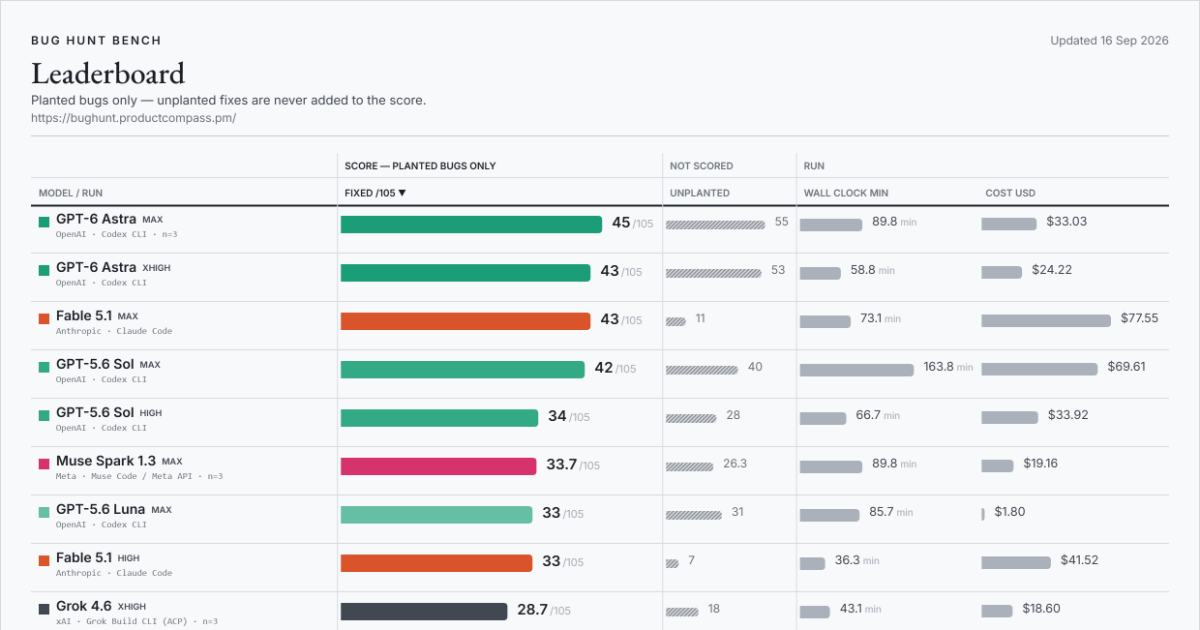
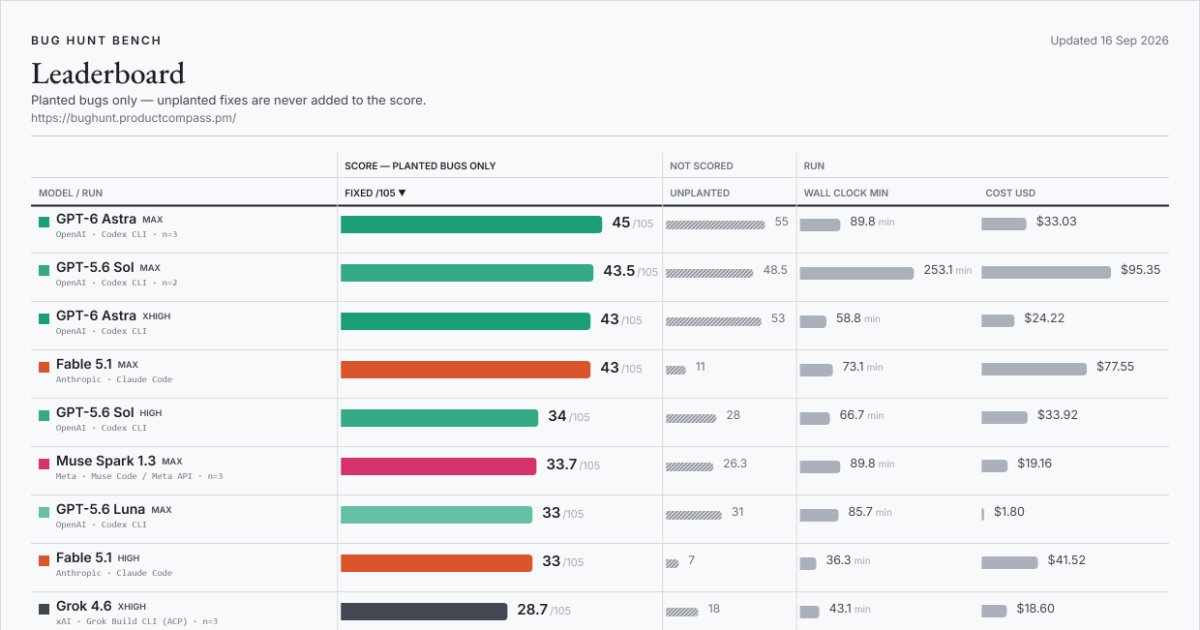
bug hunt bench: GPT-5.6 Sol (max effort) - mean of 2 (43.5/105)

diff --git a/index.html b/index.html
@@ -22,14 +22,14 @@
 <meta property="og:title" content="Bug Hunt Bench — frontier coding models against real planted bugs">
 <meta property="og:description" content="A blind-graded benchmark of frontier coding models on real bugs planted in two production codebases. The score counts planted bugs only; extra fixes are tracked separately and never added.">
 <meta property="og:url" content="https://bughunt.productcompass.pm/">
-<meta property="og:image" content="https://bughunt.productcompass.pm/og-image.png?v=2026-09-16-e9208ab5">
+<meta property="og:image" content="https://bughunt.productcompass.pm/og-image.png?v=2026-09-16-1888d192">
 <meta property="og:image:width" content="1200">
 <meta property="og:image:height" content="630">
 <meta property="og:image:alt" content="Bug Hunt Bench leaderboard">
 <meta name="twitter:card" content="summary_large_image">
 <meta name="twitter:title" content="Bug Hunt Bench — frontier coding models against real planted bugs">
 <meta name="twitter:description" content="A blind-graded benchmark of frontier coding models on real bugs planted in two production codebases. The score counts planted bugs only.">
-<meta name="twitter:image" content="https://bughunt.productcompass.pm/og-image.png?v=2026-09-16-e9208ab5">
+<meta name="twitter:image" content="https://bughunt.productcompass.pm/og-image.png?v=2026-09-16-1888d192">
 <meta name="twitter:creator" content="@PawelHuryn">
 
 <link rel="icon" href="/assets/favicon.svg" type="image/svg+xml">

diff --git a/method.html b/method.html
@@ -20,14 +20,14 @@
 <meta property="og:title" content="Method, caveats and definitions — Bug Hunt Bench">
 <meta property="og:description" content="How Bug Hunt Bench is run and graded, what the board cannot tell you, and what every column on it means.">
 <meta property="og:url" content="https://bughunt.productcompass.pm/method">
-<meta property="og:image" content="https://bughunt.productcompass.pm/og-image.png?v=2026-09-16-e9208ab5">
+<meta property="og:image" content="https://bughunt.productcompass.pm/og-image.png?v=2026-09-16-1888d192">
 <meta property="og:image:width" content="1200">
 <meta property="og:image:height" content="630">
 <meta property="og:image:alt" content="Bug Hunt Bench leaderboard">
 <meta name="twitter:card" content="summary_large_image">
 <meta name="twitter:title" content="Method, caveats and definitions — Bug Hunt Bench">
 <meta name="twitter:description" content="How Bug Hunt Bench is run and graded, what the board cannot tell you, and what every column on it means.">
-<meta name="twitter:image" content="https://bughunt.productcompass.pm/og-image.png?v=2026-09-16-e9208ab5">
+<meta name="twitter:image" content="https://bughunt.productcompass.pm/og-image.png?v=2026-09-16-1888d192">
 <meta name="twitter:creator" content="@PawelHuryn">
 
 <link rel="icon" href="/assets/favicon.svg" type="image/svg+xml">

diff --git a/results/run-notes.md b/results/run-notes.md
@@ -2,7 +2,7 @@
 
 Every row on the board, with the note and caveat it carries. Generated from `data/benchmark.json` by `bench_golive.py` - do not edit by hand.
 
-Updated Sep 16, 2026 · 95 rows from 125 scored runs. Superseded rows are listed last.
+Updated Sep 16, 2026 · 96 rows from 127 scored runs. Superseded rows are listed last.
 
 ## GPT-6 Astra (max effort) - mean of 3
 
@@ -12,6 +12,14 @@ Updated Sep 16, 2026 · 95 rows from 125 scored runs. Superseded rows are listed
 
 THE TOP ROW OF THIS BOARD, RUN THREE TIMES. Runs scored 48, 40 and 47 of 105 (repo 1: 24, 21, 21 - repo 2: 24, 19, 26). Mean 45.0, range 8. *** WHY THIS ARM MATTERED MOST *** Every other row is read against the leader, so the leader was the single run whose spread was worth the most and known the least. It is still the leader: 45.0 is the highest figure on the board and no other row is close to it at n=3. What changed is the width. *** THE RANGE IS 8 POINTS, AND IT IS NOT A SMALL NUMBER HERE *** Eight points of 105 is wider than the gap between the leader and the row below it, wider than most adjacent pairs anywhere on this board, and it sits on a configuration nothing about which was varied: same model, prompt, harness, route, effort flag and judge. The single run published on 2026-09-04 scored 48, which is the TOP of its own three-run range, so every comparison drawn against 48 was drawn against this configuration's best day rather than its typical one. That is not a correction to the old row - 48 happened, and its receipt stands - it is a correction to what the number could be used for. *** WHAT IT DOES AND DOES NOT MOVE *** It does not change the ORDER at the top: 45.0 still leads, and the gap to the next row is now 2 points rather than 5. It does mean that gap is inside the leader's own measured spread, so 'Astra max beats the row below it' is no longer something this board can assert - the row below is itself a single run with an unmeasured spread. Two numbers of unknown width two points apart support no ordering at all. *** THE UNPLANTED COLUMN MOVED FAR MORE THAN THE SCORE *** Genuine extras came in at 45, 58 and 62 across the three runs, a range of 17 on a count that is not scored. The score varied by 8 while the unscored work varied by 17, which is worth knowing before anyone reads a single run's extras figure as a property of a model. All six legs were clean: every leg exited 0, none carries a handicap note, and zero claimed-only fixes were recorded across all six - this arm claimed nothing the judge did not confirm, on any run. Per-leg receipts (repo 1 / repo 2): wall 37.2/41.6, 51.3/44.7 and 35.9/58.7 minutes; cost 15.07/16.14, 17.59/16.14 and 12.33/21.82 dollars. Run 3 ran 20 per cent longer than run 1 and scored one point lower. *** ONE JUDGING NOTE, BECAUSE IT NEARLY BECAME A SILENT DIFFERENCE *** Run 3's repo-2 leg created a scratch directory for itself, holding 300 copies of the files it was about to edit. Every copy was verified byte-identical to the pristine repo, so it contained no fix and no evidence, but left in the diff it would have added two megabytes to that leg's judge packet - a packet neither of the other two runs had. It is excluded, so all three runs were judged on the same shape of evidence. The alternative repair, raising the size limit, would have judged one replicate on a materially different packet from its own siblings. Each leg is a full independent run of both repos; the mean is over three, and the per-repo runs are stated so the spread stays visible - it is the finding, not a caveat on it. billing=LIST ESTIMATE, NOT A BILL: token counts at published list rates.
 
+## GPT-5.6 Sol (max effort) - mean of 2
+
+**43.5 / 105** · repo 1 19/45 · repo 2 24.5/60 · 48.5 unplanted · 253.1 min · $95.35 · `max` · Codex CLI · mean of 2 runs · 2026-09-16
+
+**Caveat.** TWO RUNS IS TWO POINTS. The range between them is 7 of 105, which is wider than the gap between several adjacent rows on this board, so treat 43.5 as an estimate with a known spread rather than a settled number - and note the repo figures round independently of the combined mean, so they can sum to 0.1 away from it. The replication is UNVERIFIED: this harness reports no context accounting, so nothing confirms the two runs shared a configuration beyond their identical arm definitions. A third run was attempted and did not finish.
+
+THE FIRST REPLICATION OF THIS MODEL'S TOP EFFORT SETTING. Runs scored 40 and 47 of 105 (repo 1: 18, 20 - repo 2: 22, 27). Mean 43.5, range 7. *** WHY THIS ROW IS n=2 AND NOT n=3 *** A third run was attempted on 2026-09-16 and did not complete: it ran 156 minutes, finished 563 tool calls, and then the harness account's usage quota was exhausted mid-turn. It produced no report and recorded no tokens and no cost, so there is nothing to score and nothing to average. It is not on this board and is not counted as a low run - a leg that never finished is not a result. Re-running it was declined on cost. *** THE SINGLE-RUN ROW ABOVE SAYS 42 AND THIS MEAN USES 40 FOR THE SAME RUN. BOTH ARE REAL. *** Run 1's transcript has been judged twice. The 2026-07-31 pass scored 19 + 23 = 42 and recorded its judge as grok-4.5 with no served-model field at all, because that column did not exist yet. The 2026-09-13 re-judge scored 18 + 22 = 40 and recorded the model the server actually served, grok-4.6. The judge bridge's model flag is inert - a measurement from 2026-09-04, where grok-4.5, grok-4.6 and a deliberately nonexistent model string all came back as grok-4.6 - so the July pass recorded a REQUEST as though it were a fact and was in all likelihood served the same judge. This mean therefore uses 40: the pass whose judge identity was MEASURED, and the same pass configuration run 2 was scored under. That makes it comparable and documented, NOT more accurate, and the older row keeps its 42 as a receipt rather than being quietly rewritten. *** WHAT THE TWO PASSES BUY, WHICH IS AN ERROR BAR AND NOT SAMPLE SIZE *** They disagree on 3 bugs of 105: on repo 1 one bug moved from a full fix to a partial, on repo 2 two credited bugs became misses. So JUDGE variance on a fixed transcript is 2 points, against MODEL variance of 7 points between the two runs - run-to-run spread is roughly three and a half times the grading noise. Two gradings of one transcript are NOT two runs and were not treated as such; n counts runs of the model. *** THE TWO RUNS COST VERY DIFFERENT AMOUNTS FOR A 7-POINT GAIN *** Run 2 consumed 74 percent more tokens than run 1 (100.9M against 176.0M) and 74 percent more at list rates (69.61 against 121.09 dollars) to score 7 points higher. The runs are six weeks apart on a self-updating CLI that records no version in its transcripts, so whether that is the same model working harder or a changed serving path is NOT established here. Read the mean as a mean of two runs that differed in effort expended as well as in outcome. *** THE REGIME BEHIND THESE TWO RUNS IS UNVERIFIED, NOT VERIFIED *** The automated regime check reads context accounting out of transcripts; this harness reports none - no init record and zero input tokens on every turn - so it returns CANNOT TELL for both repos rather than confirming the runs match. Stated plainly because the alternative is implying a check that did not happen. *** WALL TIME IS NOT COMPARABLE ACROSS THE TWO RUNS *** Run 1's legs ran alone; both of run 2's legs shared the machine with other work and say so in their own rows. Contention can inflate a wall figure and cannot shrink it, so the wall mean here is an upper bound. Scores, tokens and cost are unaffected by it. *** WHAT IS SOLID *** Counts, not inferences. A fixed configuration produced 40 and 47 of 105. Run 2 needed five attempts to produce two clean legs - three earlier legs died on wall budgets or non-zero exits and one was orphaned - so the failure rate of this configuration on this hardware is itself part of the picture and is visible in the metrics receipts.
+
 ## GPT-6 Astra (xhigh effort)
 
 **43 / 105** · repo 1 23/45 · repo 2 20/60 · 53 unplanted · 58.8 min · $24.22 · `xhigh` · Codex CLI · single run · 2026-09-04
@@ -19,10 +27,6 @@ THE TOP ROW OF THIS BOARD, RUN THREE TIMES. Runs scored 48, 40 and 47 of 105 (re
 ## Fable 5.1 (max effort)
 
 **43 / 105** · repo 1 19/45 · repo 2 24/60 · 11 unplanted · 73.1 min · $77.55 · `max` · Claude Code · single run · 2026-09-01
-
-## GPT-5.6 Sol (max effort)
-
-**42 / 105** · repo 1 19/45 · repo 2 23/60 · 40 unplanted · 163.8 min · $69.61 · `max` · Codex CLI · single run · 2026-08-01
 
 ## GPT-5.6 Sol (xhigh effort)
 
@@ -429,6 +433,12 @@ THE ZERO SURVIVES REPLICATION. Runs scored 0, 0 and 0 of 105 (repo 1: 0, 0, 0 - 
 **48 / 105** · repo 1 24/45 · repo 2 24/60 · 45 unplanted · 78.8 min · $31.21 · `max` · Codex CLI · single run · 2026-09-04
 
 **Superseded.** Superseded 2026-09-14 by the n=3 MEAN row at the same setting (45.0). This row is one of three runs that scored 48, 40 and 47, and it is the HIGHEST of the three - which is the reason the replication was worth buying rather than a fault in this run. Nothing here is corrected by arithmetic and the receipt stands; what does not survive is using 48 as the board's ceiling. Read the mean row's range - 8 points - before quoting any margin that rests on this number.
+
+## GPT-5.6 Sol (max effort)
+
+**42 / 105** · repo 1 19/45 · repo 2 23/60 · 40 unplanted · 163.8 min · $69.61 · `max` · Codex CLI · single run · 2026-08-01
+
+**Superseded.** Superseded 2026-09-16 by the n=2 MEAN row at the same setting (43.5). This row is one of the two runs behind it and is kept as a receipt. Read its 42 with care: it is the 2026-07-31 judge pass, which recorded its judge as grok-4.5 and had no served-model field at all. The same transcript was re-judged on 2026-09-13 under a configuration that records what the server actually served, and scored 40 - the two passes disagree on 3 bugs of 105. The mean row uses 40 because that is the measured-judge pass and the one the second run was scored under. Nothing here is corrected by arithmetic; the numbers are two gradings of one run, and the mean row's note says which and why.
 
 ## Muse Spark 1.3 (max effort, Muse Code, Meta API)
 

diff --git a/results/waves.md b/results/waves.md
@@ -2856,3 +2856,44 @@ way DeepInfra was on the Qwen3.8-27B 8-bit row). One run per repo each, not a re
 
 Neither row is featured on the default view, per the same opt-in-only rule as the two sections
 above.
+
+## Sep 16 — GPT-5.6 Sol (max) becomes a two-run mean, and a re-judge shows what grading noise costs
+
+**43.5/105** (repo 1: 19.0, repo 2: 24.5), the mean of two runs that scored **40 and 47** — repo 1:
+18, 20; repo 2: 22, 27. Range 7. The single-run row that stood here is superseded but kept as a
+receipt, and the replacement is what the default view now shows.
+
+- **Two runs is two points, and the spread is the finding.** A range of 7 of 105 on a fixed
+  configuration is wider than the gap between several adjacent rows on this board. Read 43.5 as an
+  estimate with a known spread, not a settled number.
+- **The superseded row says 42 and this mean uses 40 for the same run. Both are real, and the
+  reason is worth publishing.** That transcript has been judged twice. The Jul 31 pass scored
+  19 + 23 = 42 and recorded its judge as grok-4.5 — with no served-model field at all, because that
+  column did not exist yet. The Sep 13 re-judge scored 18 + 22 = 40 and recorded what the server
+  actually served: grok-4.6. The judge bridge's model flag is inert (measured Sep 4: grok-4.5,
+  grok-4.6 and a deliberately nonexistent string all came back grok-4.6), so the July pass recorded
+  a *request* as though it were a fact and was in all likelihood served the same judge. The mean
+  uses 40 because that is the pass whose judge identity was measured, and the pass the second run
+  was scored under — **comparable and documented, not more accurate.** The older number stays
+  visible rather than being quietly rewritten.
+- **What the second grading buys is an error bar, not sample size.** The two passes disagree on
+  **3 bugs of 105**: on repo 1 one bug moved from a full fix to a partial; on repo 2 two credited
+  bugs became misses. So judge variance on a fixed transcript is **2 points**, against **7 points**
+  of model variance between the runs — run-to-run spread is roughly three and a half times the
+  grading noise. Two gradings of one transcript are not two runs, and were not counted as such.
+- **The second run cost 74% more for 7 more points.** 100.9M tokens against 176.0M; $69.61 against
+  $121.09 at list. The runs are six weeks apart on a CLI that records no version in its
+  transcripts, so whether that is the same model working harder or a changed serving path is not
+  established here.
+- **A third run was attempted and is not on this board.** It ran 156 minutes and 563 tool calls,
+  then the harness account's usage quota was exhausted mid-turn. No report, no token accounting,
+  nothing to score — a leg that never finished is not a result and is not counted as a low run.
+- **The replication is unverified rather than verified.** The automated regime check reads context
+  accounting out of transcripts; this harness reports none, so it returns *cannot tell* for both
+  repos. Nothing beyond identical arm definitions confirms the two runs shared a configuration.
+- **Wall time is not comparable across the two runs.** The first run's legs ran alone; both of the
+  second's shared the machine and say so in their own rows. Contention inflates a wall figure and
+  cannot shrink it, so the wall mean is an upper bound. Scores, tokens and cost are untouched by it.
+- **The failure rate is part of the picture.** The second run needed five attempts to produce two
+  clean legs; the earlier ones died on wall budgets or non-zero exits. Those attempts are visible
+  in the metrics receipts.

diff --git a/README.md b/README.md
@@ -9,7 +9,7 @@ If the numbers save you a benchmark run of your own, **star this repo** — that
 <!-- leaderboard:start -->
 ![Bug Hunt Bench leaderboard, the featured runs, updated Sep 16, 2026](assets/leaderboard.png?v=2026-09-16)
 
-**Updated Sep 16, 2026 · 95 rows from 125 scored runs · 31 models · 35 of 105 bugs have never been fixed by any model.**
+**Updated Sep 16, 2026 · 96 rows from 127 scored runs · 31 models · 33 of 105 bugs have never been fixed by any model.**
 
 **Current leader:** GPT-6 Astra at `max` effort — **45 / 105** (22/45 on repo 1, 23/60 on repo 2).
 
@@ -18,9 +18,9 @@ If the numbers save you a benchmark run of your own, **star this repo** — that
 | # | Model | Harness | Effort | Runs | Fixed /105 | Repo 1 /45 | Repo 2 /60 | Extras | Wall | Cost | Date |
 |--:|---|---|---|--:|--:|--:|--:|--:|--:|--:|---|
 | 1 | GPT-6 Astra | Codex CLI | max | 3 | **45** | 22 | 23 | 55 | 90 min | $33.03 | 2026-09-14 |
-| 2 | GPT-6 Astra | Codex CLI | xhigh | 1 | **43** | 23 | 20 | 53 | 59 min | $24.22 | 2026-09-04 |
-| 3 | Fable 5.1 | Claude Code | max | 1 | **43** | 19 | 24 | 11 | 73 min | $77.55 | 2026-09-01 |
-| 4 | GPT-5.6 Sol | Codex CLI | max | 1 | **42** | 19 | 23 | 40 | 164 min | $69.61 | 2026-08-01 |
+| 2 | GPT-5.6 Sol | Codex CLI | max | 2 | **43.5** | 19 | 24.5 | 48.5 | 253 min | $95.35 | 2026-09-16 |
+| 3 | GPT-6 Astra | Codex CLI | xhigh | 1 | **43** | 23 | 20 | 53 | 59 min | $24.22 | 2026-09-04 |
+| 4 | Fable 5.1 | Claude Code | max | 1 | **43** | 19 | 24 | 11 | 73 min | $77.55 | 2026-09-01 |
 | 5 | GPT-5.6 Sol | Codex CLI | xhigh | 1 | **39** | 18 | 21 | 59 | 126 min | $52.75 | 2026-08-28 |
 | 6 | GPT-6 Astra | Codex CLI | high | 1 | **35** | 19 | 16 | 40 | 40 min | $20.60 | 2026-09-04 |
 | 7 | GPT-6 Astra | Codex CLI | medium | 1 | **34** | 19 | 15 | 33 | 28 min | $15.78 | 2026-09-05 |
@@ -92,7 +92,7 @@ If the numbers save you a benchmark run of your own, **star this repo** — that
 Extras are real, unplanted defects a model fixed on the way; they are counted and never added to the score. Costs are token estimates at published list rates unless tagged **bill** (an actual invoice or credits delta) or **floor** (a reconstructed lower bound). `default` effort means the serving path had no working effort dial; *ran lower* marks a run whose CLI quietly replaced the requested tier. Wall clock is repo 1 plus repo 2 agent time, dependency install excluded.
 Every row's full note, caveat and supersession history is in [results/run-notes.md](https://github.com/phuryn/bug-hunt-bench/blob/main/results/run-notes.md); the runs behind each one are in the metrics CSVs.
 
-26 superseded re-runs stay in the CSVs and on the [live board](https://bughunt.productcompass.pm/?preset=all) but are left off this table.
+27 superseded re-runs stay in the CSVs and on the [live board](https://bughunt.productcompass.pm/?preset=all) but are left off this table.
 <!-- leaderboard:end -->
 
 ## What Bug Hunt Bench is
